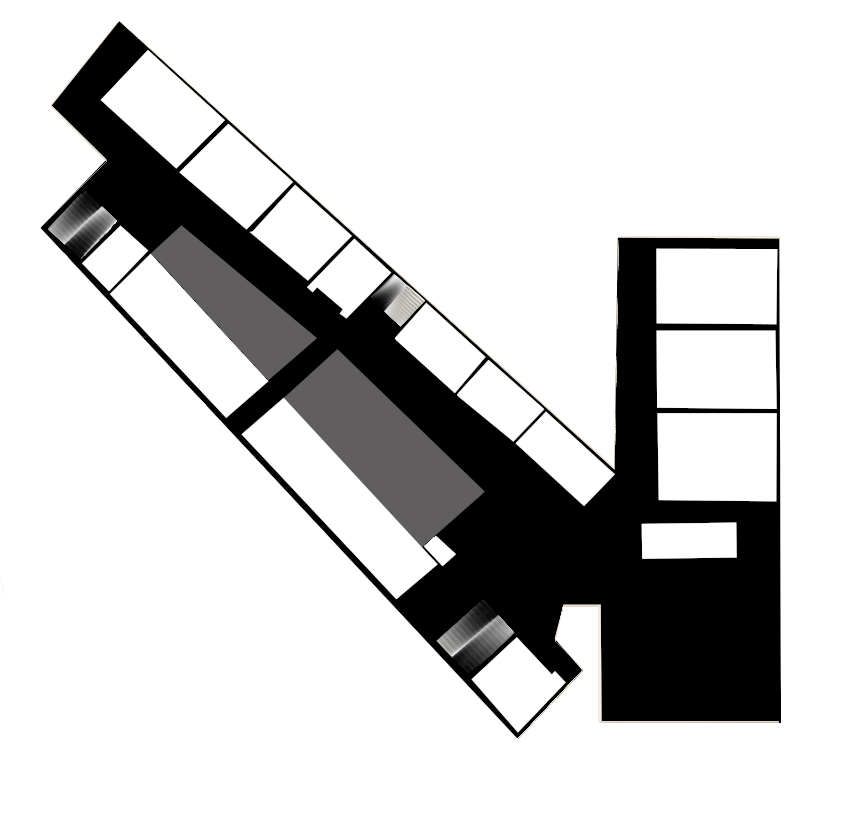
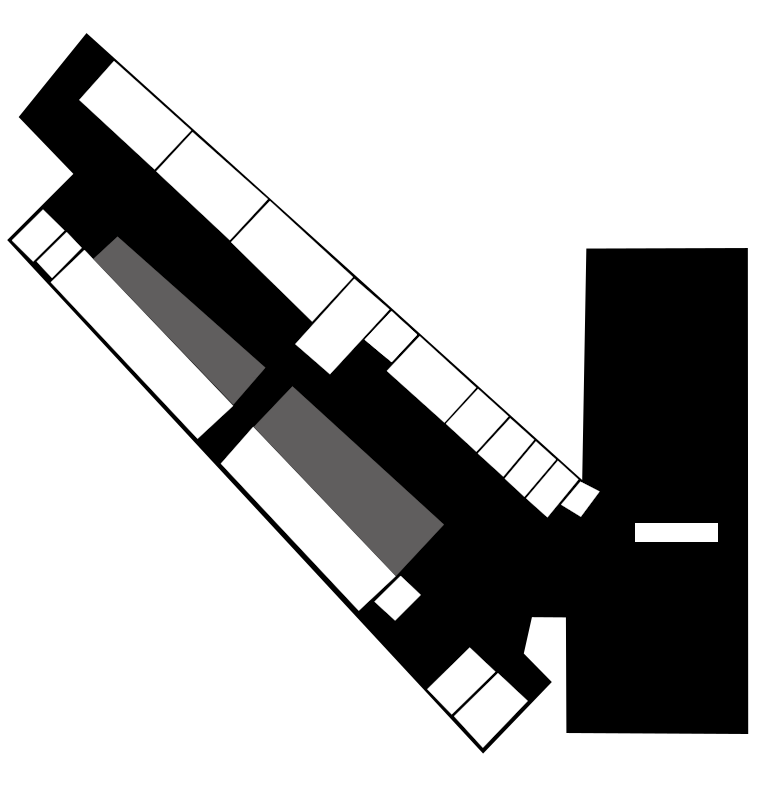
complete fci map

diff --git a/static/indoor.js b/static/indoor.js
@@ -12,11 +12,11 @@ let isIndoor = false;
     INDOOR DATA (DEMO ONLY)
 ========================= */
 const FCIfloors = {
-    0: { image: '/static/images/fci_floor1.png', },
+    0: { image: '/static/images/fci_ground.png', },
     1: { image: '/static/images/fci_floor1.png', },
-    2: { image: '/static/images/fci_floor1.png', },
-    3: { image: '/static/images/fci_floor1.png', },
-    4: { image: '/static/images/fci_floor1.png', }
+    2: { image: '/static/images/fci_floor23.png', },
+    3: { image: '/static/images/fci_floor23.png', },
+    4: { image: '/static/images/fci_floor4.png', }
 };
 
 const FOMfloors = {
@@ -48,7 +48,7 @@ const FCMfloors = {
 const buildings = {
     fci: {
         name: "FCI Building",
-        center: [2.928633, 101.64111],
+        center: [2.928656, 101.64111],
         floors: FCIfloors, 
     },
 
@@ -95,7 +95,7 @@ function enterIndoor(buildingId) {
     map.doubleClickZoom.disable();
     map.touchZoom.disable();
 
-    map.flyTo(activeBuilding.center, 20);
+    map.flyTo(activeBuilding.center, 19.5);
 
     document.getElementById('indoorPanel').style.display = 'block';
     document.getElementById('indoorContainer').hidden = false;

diff --git a/templates/index.html b/templates/index.html
@@ -439,13 +439,6 @@
                 <span id="closeProfilePopup" class="close-btn">&times;</span>
 
                 <h2>Admin Profile</h2>
-
-                <!-- Profile Picture -->
-                <div class="profile-picture-section">
-                    <img id="profileImagePreview" src="" alt="Profile Picture">
-                    <input type="file" id="profileImageInput" accept="image/*">
-                </div>
-
                 <!-- Info Fields -->
 
                 <div class="profile-field">
